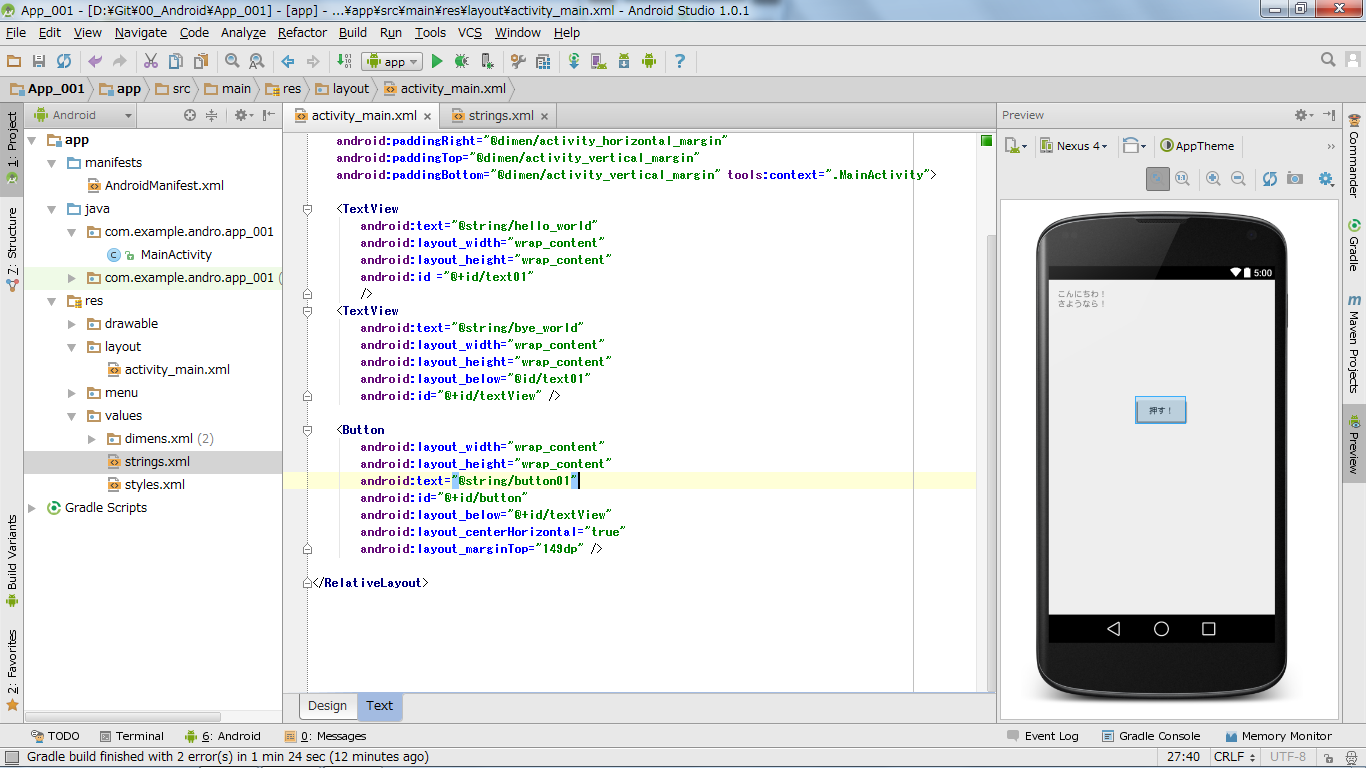
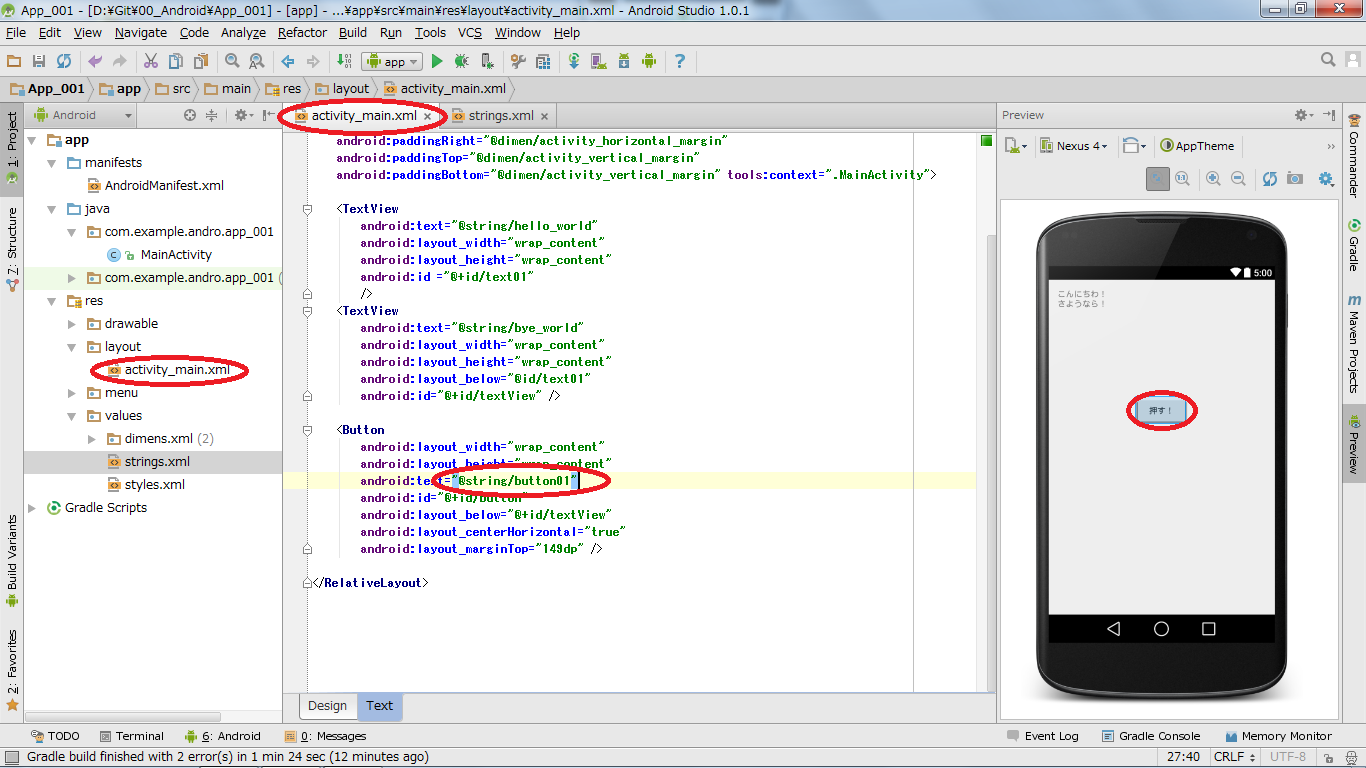
画像を少し加工

diff --git a/README.md b/README.md
@@ -78,7 +78,10 @@ android:text="New Button"
 ↓↓↓  
 android:text="@string/button01"  
 に変更します。  
+
+右側画面イメージのボタン表示も｢string.xml｣に設定した文字に変わりました。  
 これでＸＭＬの準備は終わりました。  
+
 
 ![08](https://github.com/miyake-yasunaga/02_Button/blob/master/images/08.png)
 
@@ -136,7 +139,7 @@ xmlに設定している｢さようなら｣を表示しているtext表示のi
 
         final TextView tv01 = (TextView)this.findViewById(R.id.textView);  
 
-あとはボタンクリックしたら、上で記述した変数tv01に  
+あとはonClick時に、上で記述した変数tv01に  
 ｢string.xml｣のmessage01に設定した文字をセットするという記述をすれば完成です。  
 
 
@@ -145,6 +148,12 @@ xmlに設定している｢さようなら｣を表示しているtext表示のi
                 tv01.setText(R.string.message01);　←この1行を追加  
 
             }  
+
+ボタンと同じように  
+         import android.widget.TextView;  
+も追加されました。  
+
+これでメニューの三角ボタンでビルドすると・・・
 
 ![12](https://github.com/miyake-yasunaga/02_Button/blob/master/images/12.png)
 
